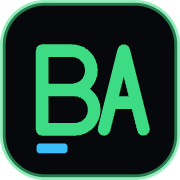
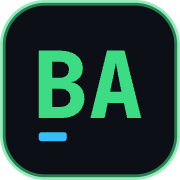
Redraw BA monogram from JetBrains Mono outlines
The hand-drawn stroked B had uneven bowls and didn't match the site's
type. Outline 'BA' from JetBrains Mono ExtraBold (the site's mono face)
and use the same geometry for the favicon, app icons, splash screen and
the Flutter nav logo. Splash now traces the outline, then fills.

Changed region(s): [[0.1944, 0.2222, 0.8333, 0.8611]]

diff --git a/lib/widgets/common.dart b/lib/widgets/common.dart
@@ -357,44 +357,63 @@ class _LogoPainter extends CustomPainter {
         ..color = AppColors.primary.withValues(alpha: 0.55),
     );
 
-    final stroke = Paint()
-      ..style = PaintingStyle.stroke
-      ..strokeWidth = 4.5
-      ..strokeJoin = StrokeJoin.round
-      ..strokeCap = StrokeCap.round
-      ..color = AppColors.primary;
-
-    final b = Path()
-      ..moveTo(15, 18)
-      ..lineTo(15, 46)
-      ..lineTo(26.5, 46)
-      ..arcToPoint(
-        const Offset(26.5, 32),
-        radius: const Radius.circular(7),
-        clockwise: false,
-      )
-      ..lineTo(15, 32)
-      ..moveTo(15, 32)
-      ..lineTo(25.5, 32)
-      ..arcToPoint(
-        const Offset(25.5, 18),
-        radius: const Radius.circular(7),
-        clockwise: false,
-      )
-      ..lineTo(15, 18);
-    final a = Path()
-      ..moveTo(37, 46)
-      ..lineTo(44, 18)
-      ..lineTo(51, 46)
-      ..moveTo(40.2, 36.5)
-      ..lineTo(47.8, 36.5);
-    canvas.drawPath(b, stroke);
-    canvas.drawPath(a, stroke);
+    // "BA" outlined from JetBrains Mono ExtraBold (same as web/favicon.svg).
+    final glyph = Path()
+      ..moveTo(13.77, 42)
+      ..lineTo(13.77, 18)
+      ..lineTo(21.5, 18)
+      ..quadraticBezierTo(23.9, 18, 25.69, 18.77)
+      ..quadraticBezierTo(27.48, 19.55, 28.48, 20.93)
+      ..quadraticBezierTo(29.48, 22.31, 29.48, 24.18)
+      ..quadraticBezierTo(29.48, 26.22, 28.37, 27.58)
+      ..quadraticBezierTo(27.25, 28.95, 25.47, 29.21)
+      ..lineTo(25.47, 29.28)
+      ..quadraticBezierTo(26.82, 29.41, 27.86, 30.21)
+      ..quadraticBezierTo(28.89, 31.02, 29.47, 32.27)
+      ..quadraticBezierTo(30.04, 33.52, 30.04, 35.06)
+      ..quadraticBezierTo(30.04, 37.13, 29.01, 38.7)
+      ..quadraticBezierTo(27.97, 40.26, 26.12, 41.13)
+      ..quadraticBezierTo(24.26, 42, 21.79, 42)
+      ..close()
+      ..moveTo(18.54, 27.67)
+      ..lineTo(21.43, 27.67)
+      ..quadraticBezierTo(22.88, 27.67, 23.7, 26.89)
+      ..quadraticBezierTo(24.52, 26.12, 24.52, 24.81)
+      ..quadraticBezierTo(24.52, 23.46, 23.7, 22.72)
+      ..quadraticBezierTo(22.88, 21.98, 21.43, 21.98)
+      ..lineTo(18.54, 21.98)
+      ..close()
+      ..moveTo(18.54, 38.02)
+      ..lineTo(21.63, 38.02)
+      ..quadraticBezierTo(23.24, 38.02, 24.16, 37.17)
+      ..quadraticBezierTo(25.08, 36.31, 25.08, 34.8)
+      ..quadraticBezierTo(25.08, 33.29, 24.16, 32.42)
+      ..quadraticBezierTo(23.24, 31.55, 21.63, 31.55)
+      ..lineTo(18.54, 31.55)
+      ..close()
+      ..moveTo(32.15, 42)
+      ..lineTo(38.03, 18)
+      ..lineTo(44.28, 18)
+      ..lineTo(50.23, 42)
+      ..lineTo(45.2, 42)
+      ..lineTo(44.05, 36.58)
+      ..lineTo(38.33, 36.58)
+      ..lineTo(37.18, 42)
+      ..close()
+      ..moveTo(39.15, 32.63)
+      ..lineTo(43.19, 32.63)
+      ..lineTo(42.04, 26.84)
+      ..quadraticBezierTo(41.81, 25.59, 41.57, 24.36)
+      ..quadraticBezierTo(41.32, 23.13, 41.19, 22.44)
+      ..quadraticBezierTo(41.06, 23.13, 40.84, 24.35)
+      ..quadraticBezierTo(40.63, 25.56, 40.37, 26.81)
+      ..close();
+    canvas.drawPath(glyph, Paint()..color = AppColors.primary);
 
     canvas.drawRRect(
       RRect.fromRectAndRadius(
-        const Rect.fromLTWH(13, 51, 11, 3.5),
-        const Radius.circular(1.2),
+        const Rect.fromLTWH(13.77, 47, 10, 3.2),
+        const Radius.circular(1),
       ),
       Paint()..color = AppColors.cyan,
     );

diff --git a/web/index.html b/web/index.html
@@ -66,9 +66,10 @@
     }
 
     .mark .glyph {
-      stroke-dasharray: 120;
-      stroke-dashoffset: 120;
-      animation: draw 0.8s 0.35s ease-out forwards;
+      fill-opacity: 0;
+      stroke-dasharray: 320;
+      stroke-dashoffset: 320;
+      animation: draw 0.9s 0.25s ease-out forwards, fill 0.4s 0.85s ease-out forwards;
     }
 
     .mark .cursor {
@@ -105,6 +106,7 @@
     }
 
     @keyframes draw { to { stroke-dashoffset: 0; } }
+    @keyframes fill { to { fill-opacity: 1; } }
     @keyframes blink { 0%, 100% { opacity: 1; } 50% { opacity: 0; } }
     @keyframes slide {
       0% { transform: translateX(-100%); }
@@ -112,7 +114,7 @@
     }
 
     @media (prefers-reduced-motion: reduce) {
-      .mark .frame, .mark .glyph { animation: none; stroke-dashoffset: 0; }
+      .mark .frame, .mark .glyph { animation: none; stroke-dashoffset: 0; fill-opacity: 1; }
       .mark .cursor { animation: none; opacity: 1; }
       .bar i { animation: none; width: 100%; }
     }
@@ -123,12 +125,8 @@
   <svg class="mark" viewBox="0 0 64 64" aria-hidden="true">
     <rect class="frame" x="1" y="1" width="62" height="62" rx="15" fill="#0C1016"
           stroke="#3DDC84" stroke-opacity=".55" stroke-width="1.5"/>
-    <path class="glyph" d="M15 18V46H26.5a7 7 0 0 0 0-14H15M15 32H25.5a7 7 0 0 0 0-14H15"
-          fill="none" stroke="#3DDC84" stroke-width="4.5" stroke-linejoin="round"
-          stroke-linecap="round"/>
-    <path class="glyph" d="M37 46L44 18L51 46M40.2 36.5H47.8" fill="none" stroke="#3DDC84"
-          stroke-width="4.5" stroke-linejoin="round" stroke-linecap="round"/>
-    <rect class="cursor" x="13" y="51" width="11" height="3.5" rx="1.2" fill="#38BDF8"/>
+    <path class="glyph" d="M13.77 42L13.77 18L21.5 18Q23.9 18 25.69 18.77Q27.48 19.55 28.48 20.93Q29.48 22.31 29.48 24.18Q29.48 26.22 28.37 27.58Q27.25 28.95 25.47 29.21L25.47 29.28Q26.82 29.41 27.86 30.21Q28.89 31.02 29.47 32.27Q30.04 33.52 30.04 35.06Q30.04 37.13 29.01 38.7Q27.97 40.26 26.12 41.13Q24.26 42 21.79 42ZM18.54 27.67L21.43 27.67Q22.88 27.67 23.7 26.89Q24.52 26.12 24.52 24.81Q24.52 23.46 23.7 22.72Q22.88 21.98 21.43 21.98L18.54 21.98ZM18.54 38.02L21.63 38.02Q23.24 38.02 24.16 37.17Q25.08 36.31 25.08 34.8Q25.08 33.29 24.16 32.42Q23.24 31.55 21.63 31.55L18.54 31.55ZM32.15 42L38.03 18L44.28 18L50.23 42L45.2 42L44.05 36.58L38.33 36.58L37.18 42ZM39.15 32.63L43.19 32.63L42.04 26.84Q41.81 25.59 41.57 24.36Q41.32 23.13 41.19 22.44Q41.06 23.13 40.84 24.35Q40.63 25.56 40.37 26.81Z" fill="#3DDC84" stroke="#3DDC84" stroke-width="0.6"/>
+    <rect class="cursor" x="13.77" y="47" width="10" height="3.2" rx="1" fill="#38BDF8"/>
   </svg>
   <div class="boot"><b>$</b> <span id="boot-line">booting portfolio</span></div>
   <div class="bar"><i></i></div>
